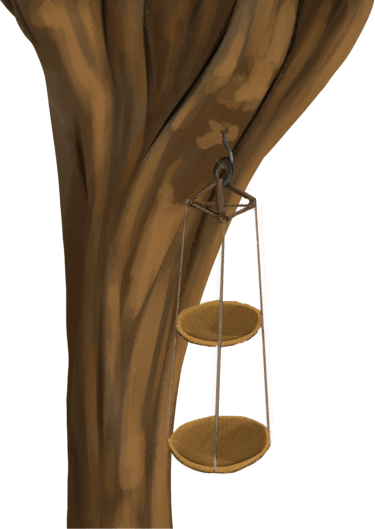
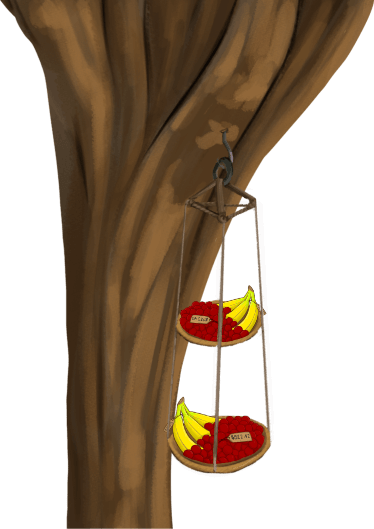
Add berries, flags

diff --git a/src/game/scenes/index.js b/src/game/scenes/index.js
@@ -24,6 +24,9 @@ import decors from '../assets/images/decors.png';
 import letters from '../assets/images/letters.png';
 import painting from '../assets/images/painting.png';
 import shelftop from '../assets/images/shelftop.png';
+import flag1 from '../assets/images/flag1.png';
+import flag2 from '../assets/images/flag2.png';
+import flag3 from '../assets/images/flag3.png';
 import quests from '../assets/images/quests.png';
 
 import bae from '../assets/images/bae.png';
@@ -85,6 +88,9 @@ class IndexScene extends Phaser.Scene {
     this.load.image('letters', letters);
     this.load.image('painting', painting);
     this.load.image('shelftop', shelftop);
+    this.load.image('flag1', flag1);
+    this.load.image('flag2', flag2);
+    this.load.image('flag3', flag3);
     this.load.image('quests', quests);
 
     this.load.image('bae', bae);

diff --git a/src/data/elements.js b/src/data/elements.js
@@ -172,6 +172,35 @@ module.exports = {
     font: 40,
     project: 'messages',
   },
+  flag1: {
+    x: -0.02,
+    y: -0.01,
+    z: 8,
+    ox: 0,
+    oy: 0,
+    str: 0.4,
+    scale: 0.8,
+  },
+  flag2: {
+    x: 0.15,
+    y: -0.005,
+    z: 9,
+    ox: 0.05,
+    oy: 0,
+    lx: 0.58,
+    ly: 0.27,
+    str: 0.6,
+    scale: 0.8,
+  },
+  flag3: {
+    x: 0.4,
+    y: -0.05,
+    z: 10,
+    ox: 0,
+    oy: 0,
+    str: 0.7,
+    scale: 0.8,
+  },
 
   fauna: {
     x: 0.66,
@@ -246,7 +275,7 @@ module.exports = {
   },
   front3: {
     x: -0.005,
-    y: 0.2,
+    y: 0.3,
     z: 102,
     str: -0.5,
     ox: 0,
